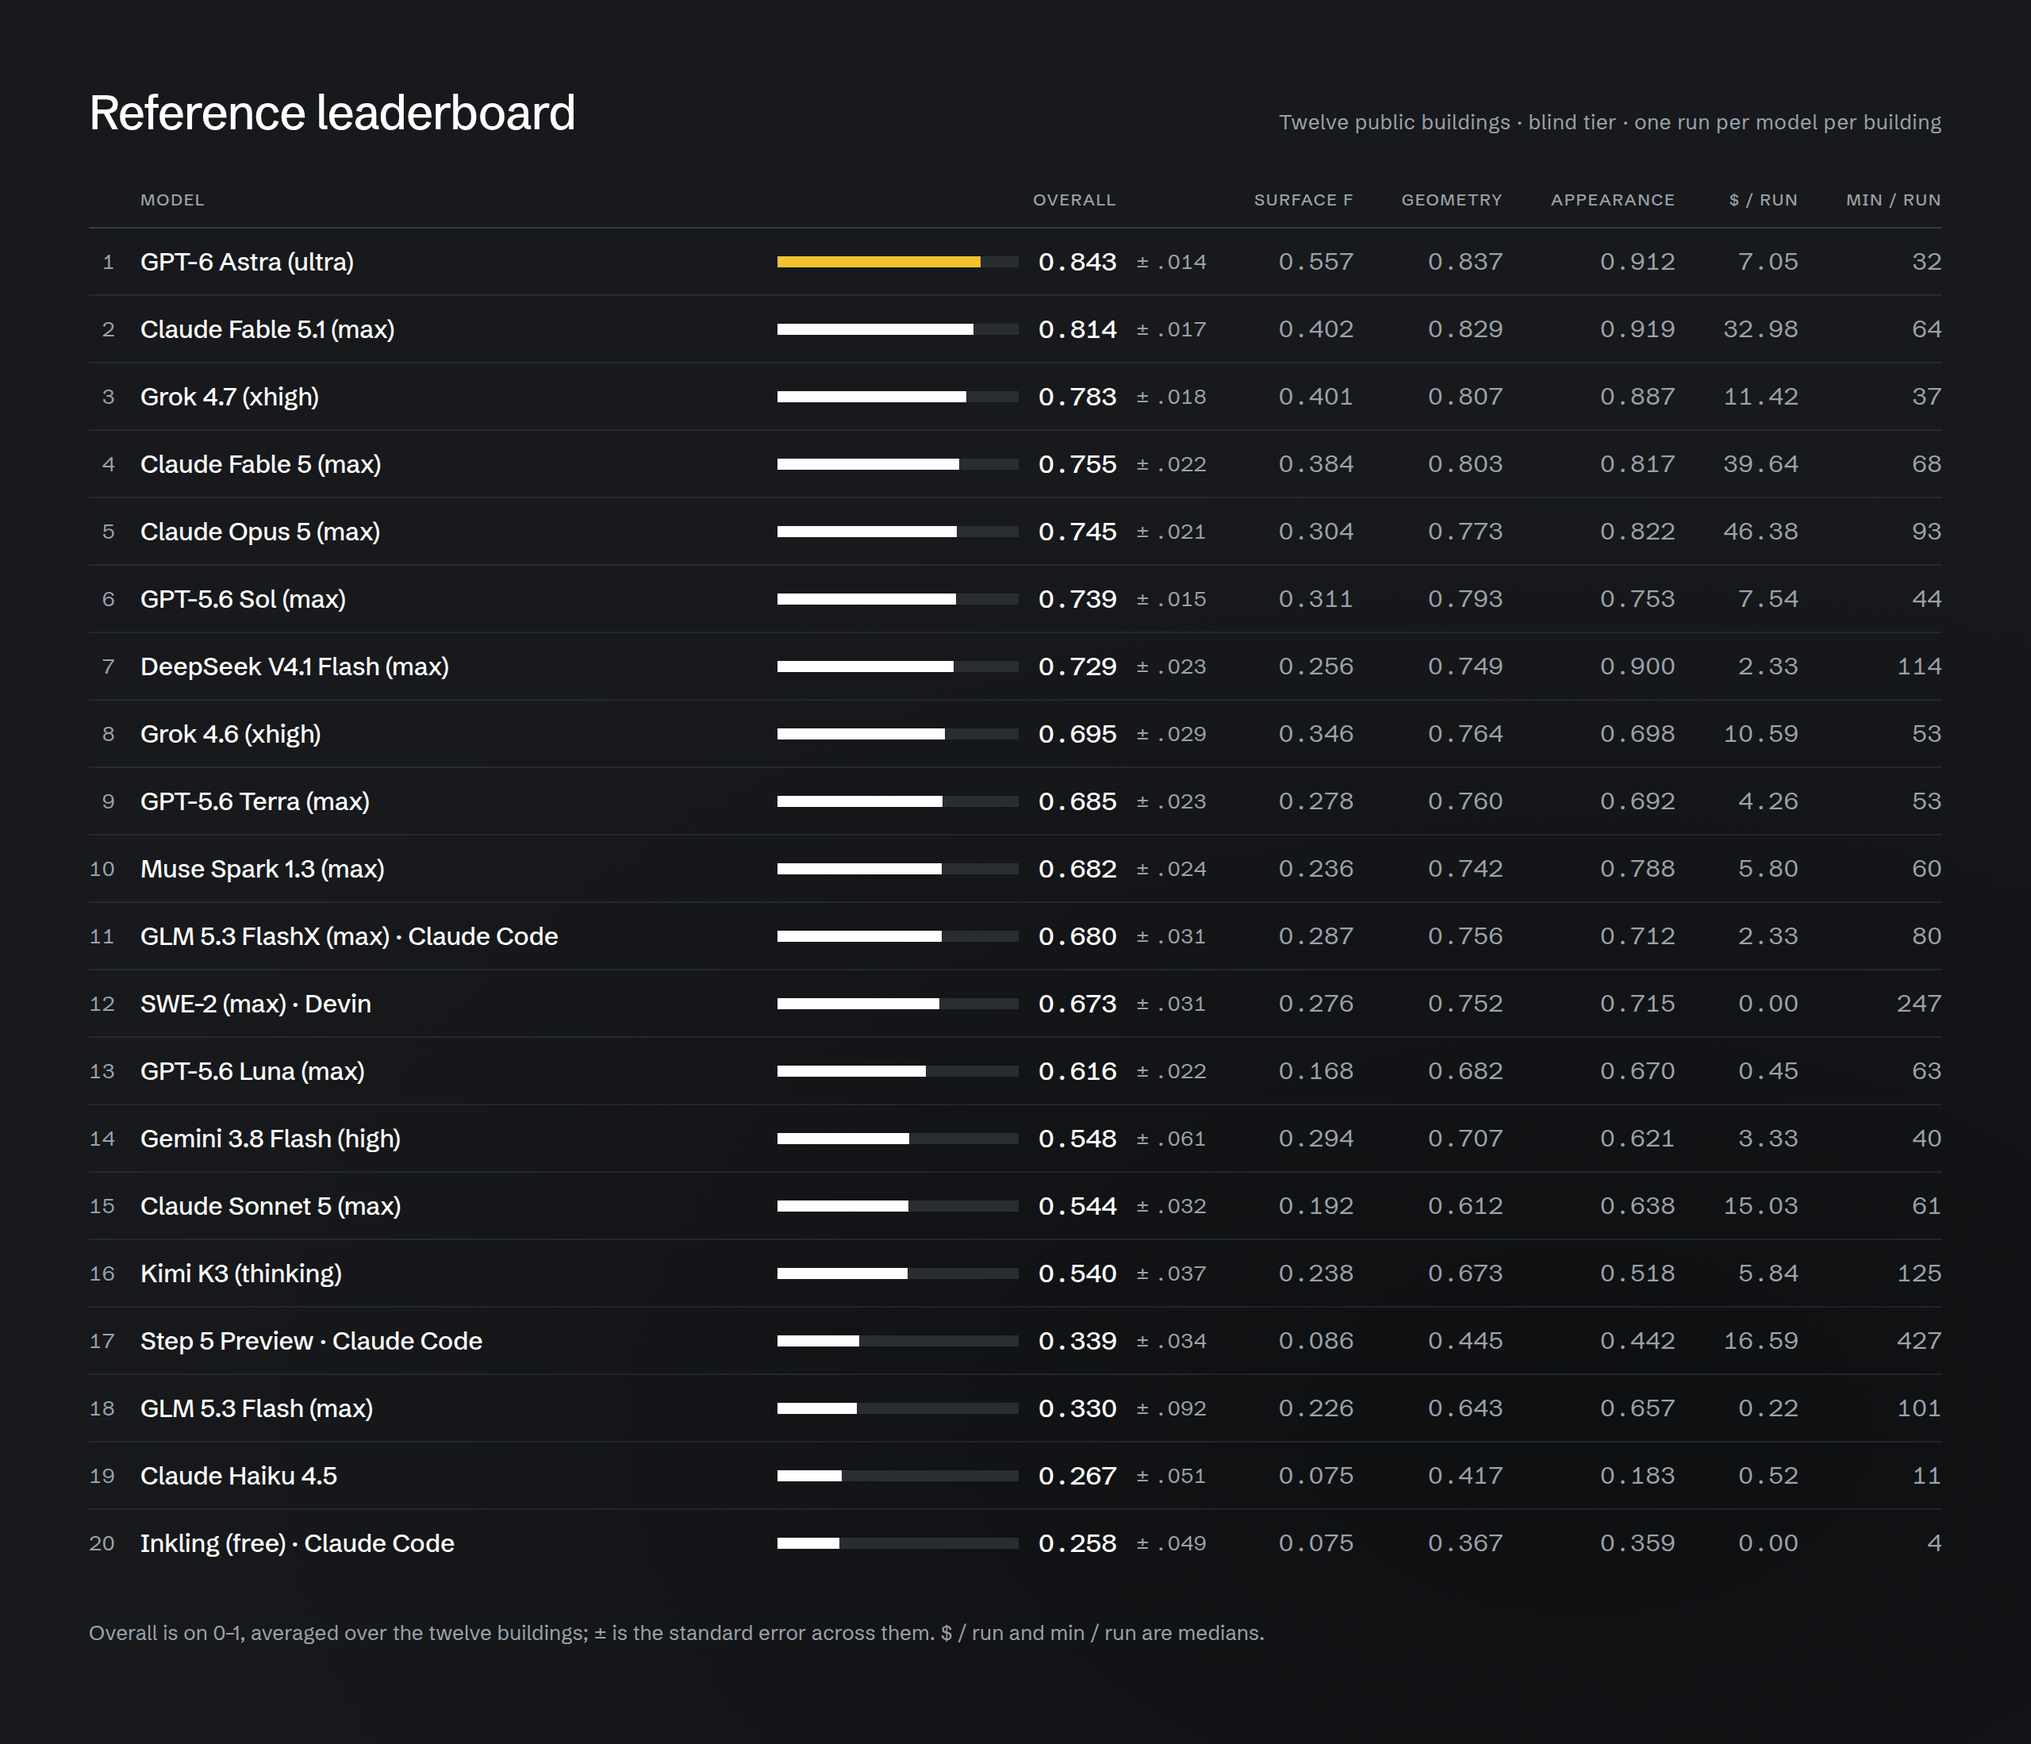
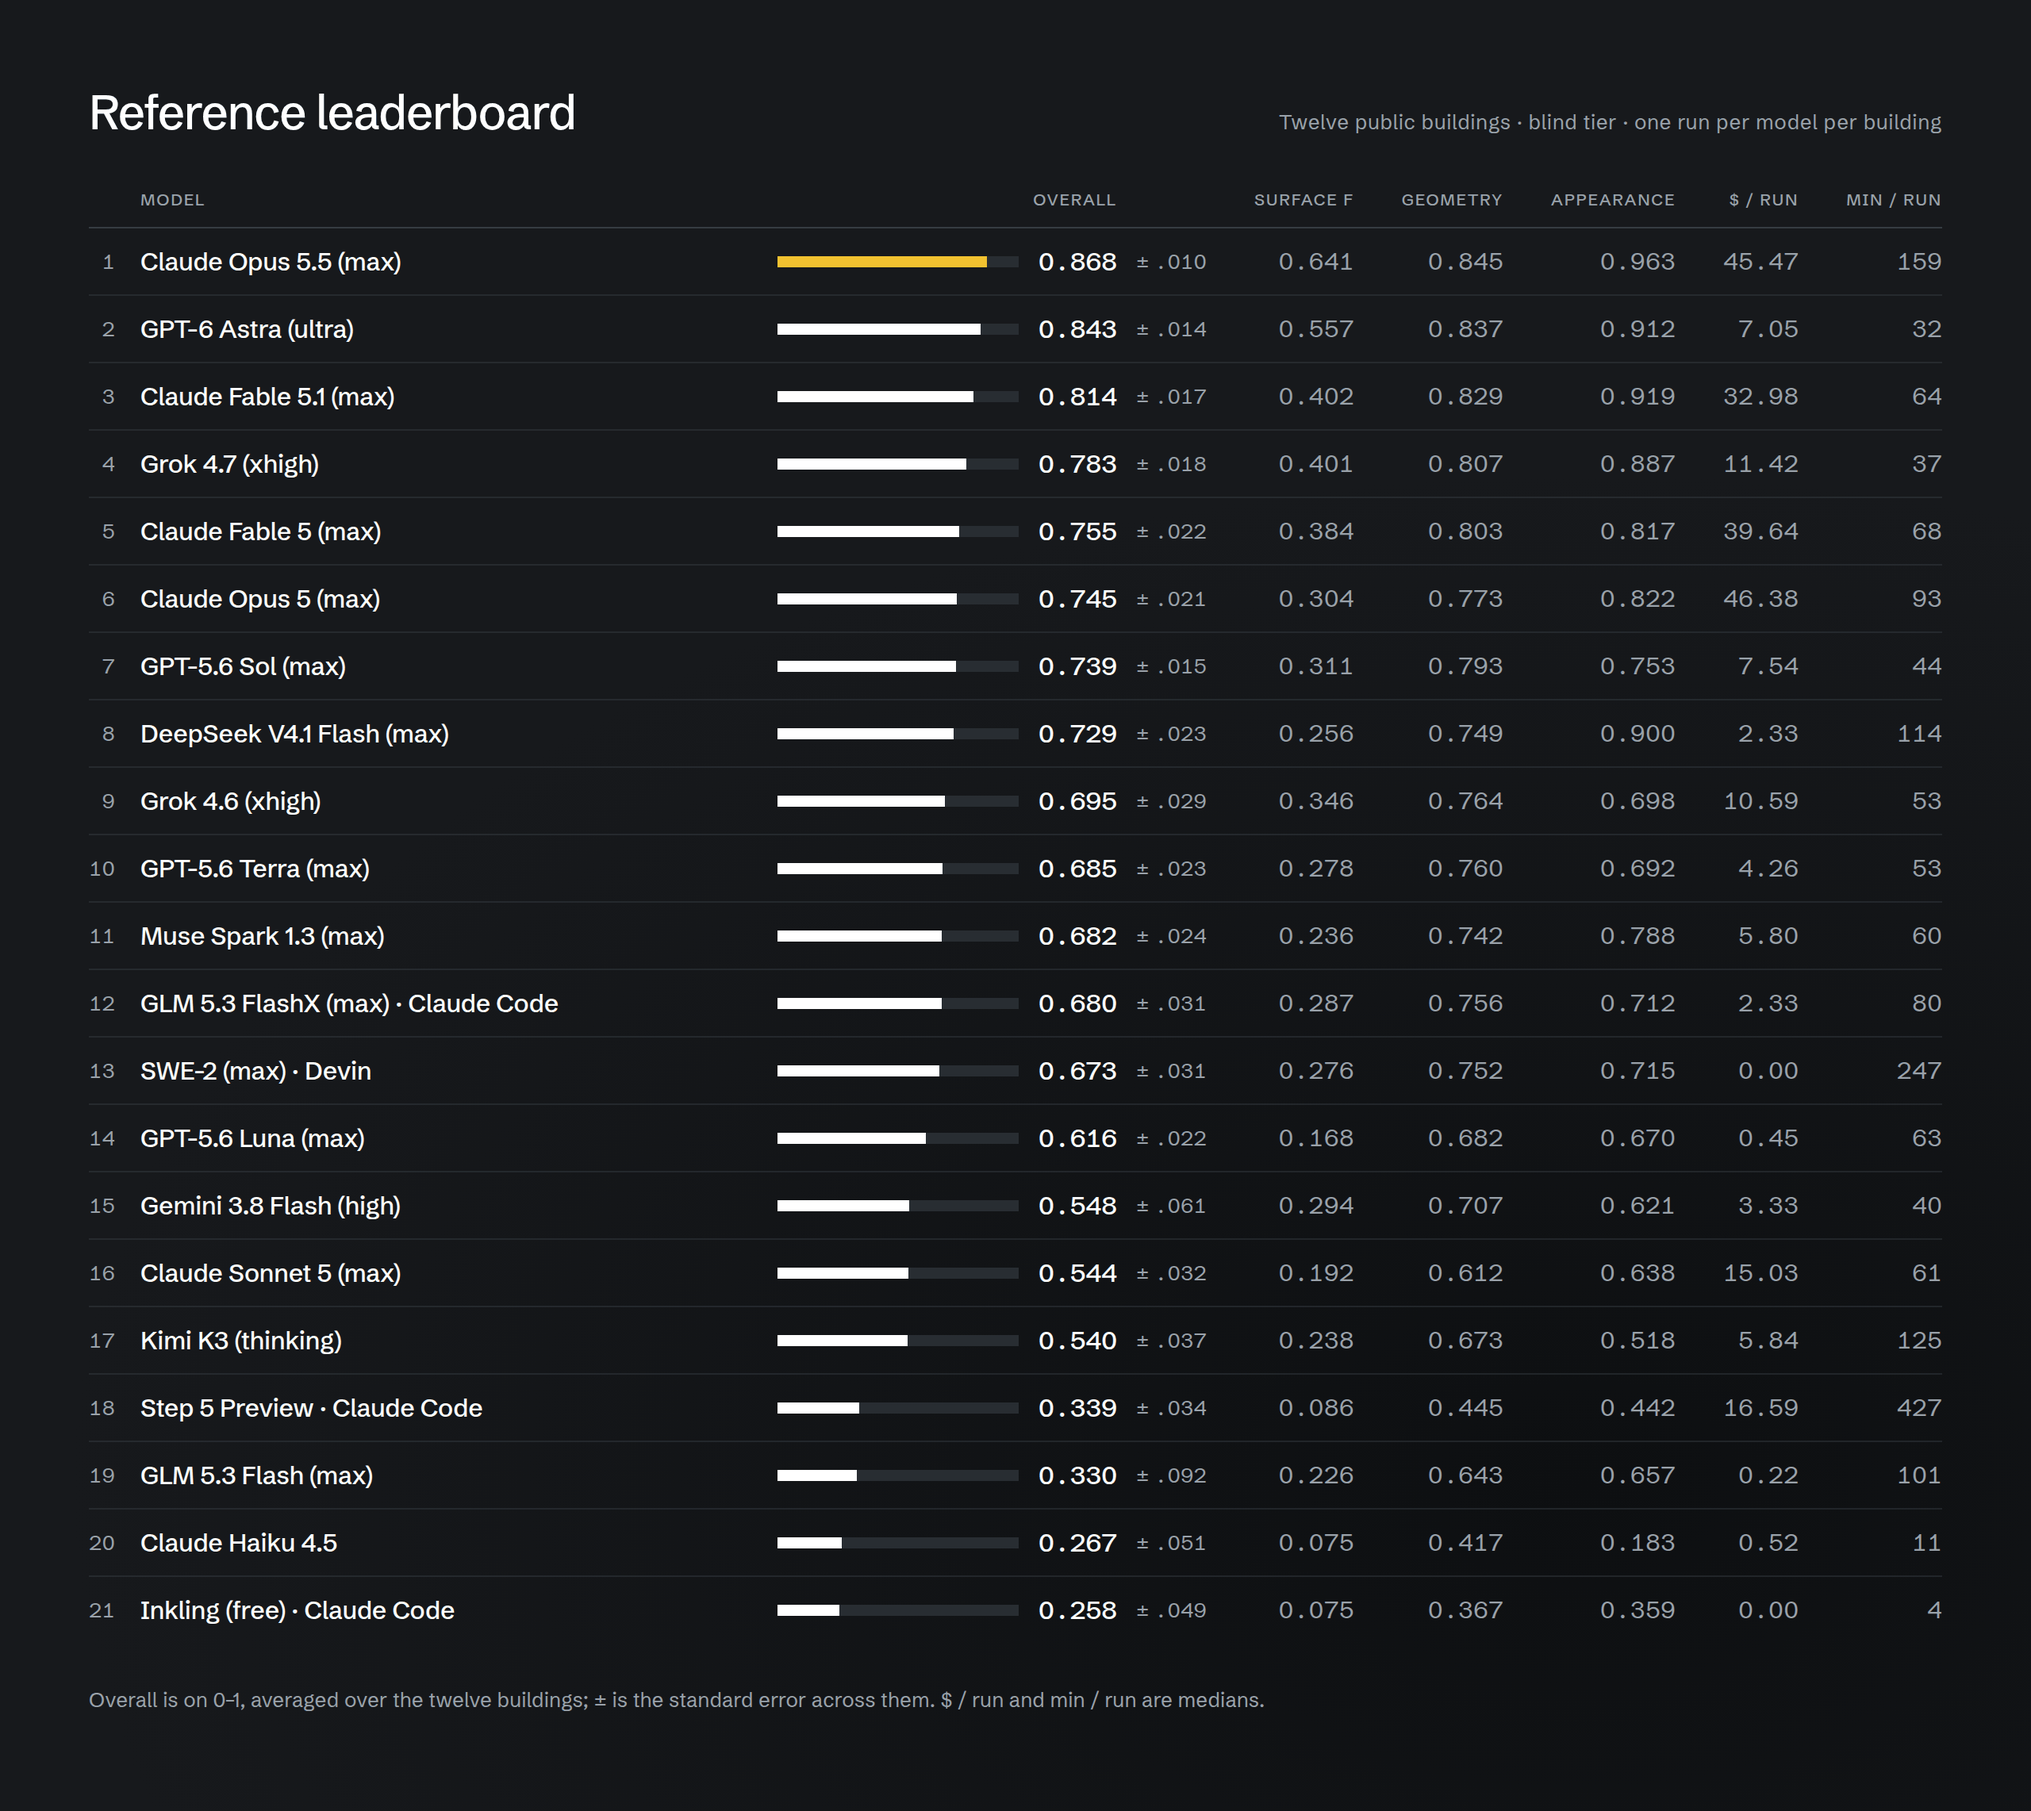
Redraw the board and price figures, and the price film
Claude Opus 5.5 joins the board at first and arrives last in the film. The
film's legend now wraps into a second column after five arrivals -- a sixth
line reached down onto the plot's top tick -- and a label whose dot sits at
the left edge, with the frontier leaving it to the right, gets seats above or
below the line rather than falling back onto it.

diff --git a/docs/pareto_film.py b/docs/pareto_film.py
@@ -32,7 +32,8 @@ from harness import board                                         # noqa: E402
 OUT = ROOT / "docs" / "assets" / "pareto.gif"
 ARRIVALS = ["fable51max", "gpt-6-astra-ultra", "deepseek-v41-flash-claude-code",
             "z-ai-glm-5.3-flashx-claude-code", "grok47xhigh",
-            "step-5-preview-claude-code"]
+            "step-5-preview-claude-code",
+            "claude-opus-5-5-max"]
 
 FPS = 12
 W, H, DPI = 1920, 1080, 100
@@ -94,7 +95,11 @@ def label_offsets(points: list[dict], line: list[dict] = ()) -> dict[str, tuple[
     slots = [(0.012, 0.0, "left"), (-0.012, 0.0, "right"), (0.0, 0.035, "center"),
              (0.0, -0.045, "center"), (0.012, 0.03, "left"), (-0.012, 0.03, "right"),
              (0.012, -0.035, "left"), (-0.012, -0.035, "right"), (0.0, 0.07, "center"),
-             (0.0, -0.08, "center")]
+             (0.0, -0.08, "center"),
+             # a dot at the left edge cannot take a left or centred label, and the
+             # frontier leaving it rules out the right: these clear the line
+             (0.012, 0.05, "left"), (0.012, -0.06, "left"), (0.02, 0.07, "left"),
+             (0.02, -0.08, "left")]
     placed, out = [], {}
     dots = [(xpos(p["cost"]), ypos(p["overall"])) for p in points]
     # the frontier is an obstacle too: sample it so no label sits on the line
@@ -144,9 +149,10 @@ def draw(points: list[dict], shown: dict[str, float], fronts: list[tuple[list[di
     head = fig.text(0.04, 0.905, "BuildingBench", fontsize=30, fontweight="bold", color=INK)
     box = head.get_window_extent(renderer=fig.canvas.get_renderer())
     fig.text(0.04 + box.width / W + 0.008, 0.905, "Pareto Frontier", fontsize=30, color="#6f6f69")
+    # five to a column: a sixth line reaches down into the plot's top tick
     for i, (name, col, a) in enumerate(added):
-        fig.text(0.04, 0.868 - i * 0.03, f"+ {name}", fontsize=15, fontweight="bold",
-                 color=col, alpha=a)
+        fig.text(0.04 + (i // 5) * 0.2, 0.868 - (i % 5) * 0.03, f"+ {name}", fontsize=15,
+                 fontweight="bold", color=col, alpha=a)
     # brand, top right
     fig.text(0.955, 0.925, "Enactra AI", fontsize=17, fontweight="bold", color=INK, ha="right")
     fig.text(0.955 - 0.066, 0.9, "enactra.ai", fontsize=12, color=INK2, ha="left")
